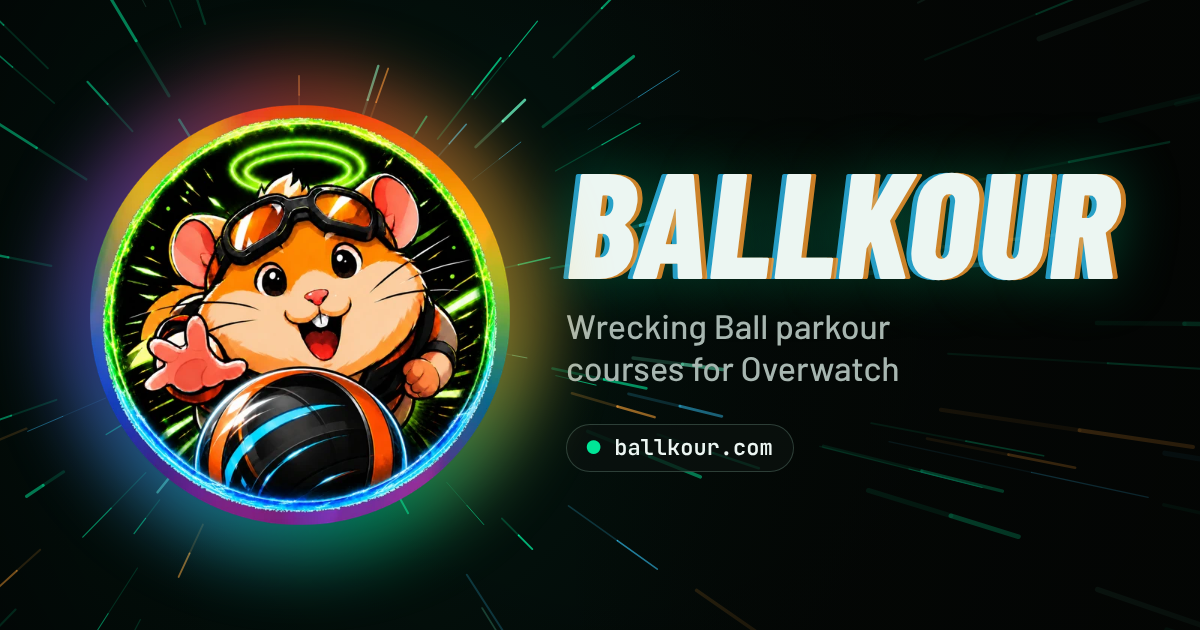
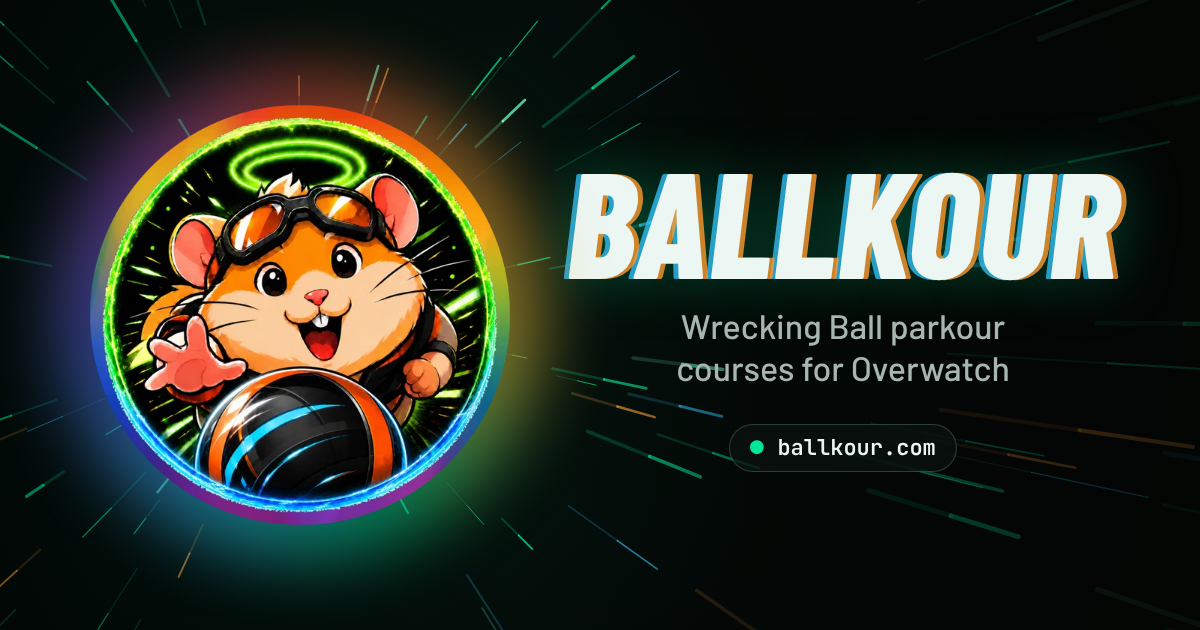
chore: update link preview text and image

diff --git a/index.html b/index.html
@@ -4,15 +4,15 @@
 <meta charset="utf-8">
 <meta name="viewport" content="width=device-width, initial-scale=1, viewport-fit=cover">
 <title>Ballkour · Wrecking Ball parkour for Overwatch</title>
-<meta name="description" content="Wrecking Ball parkour courses for Overwatch. Grab a course code, run every checkpoint on one clock, and get your time on the leaderboard.">
+<meta name="description" content="Wrecking Ball parkour courses for Overwatch. Grab a course code, run through every checkpoint, and get your time on the leaderboard!">
 <link rel="canonical" href="https://ballkour.com/">
 <meta name="theme-color" content="#00e697">
 <meta property="og:type" content="website">
 <meta property="og:site_name" content="Ballkour">
 <meta property="og:title" content="Ballkour">
-<meta property="og:description" content="Wrecking Ball parkour courses for Overwatch. Grab a course code, run every checkpoint on one clock, and get your time on the leaderboard.">
+<meta property="og:description" content="Wrecking Ball parkour courses for Overwatch. Grab a course code, run through every checkpoint, and get your time on the leaderboard!">
 <meta property="og:url" content="https://ballkour.com/">
-<meta property="og:image" content="https://ballkour.com/assets/og.png">
+<meta property="og:image" content="https://ballkour.com/assets/og.png?v=2">
 <meta property="og:image:width" content="1200">
 <meta property="og:image:height" content="630">
 <meta property="og:image:alt" content="The Ballkour hamster logo next to the Ballkour wordmark on a neon speed-line background">
